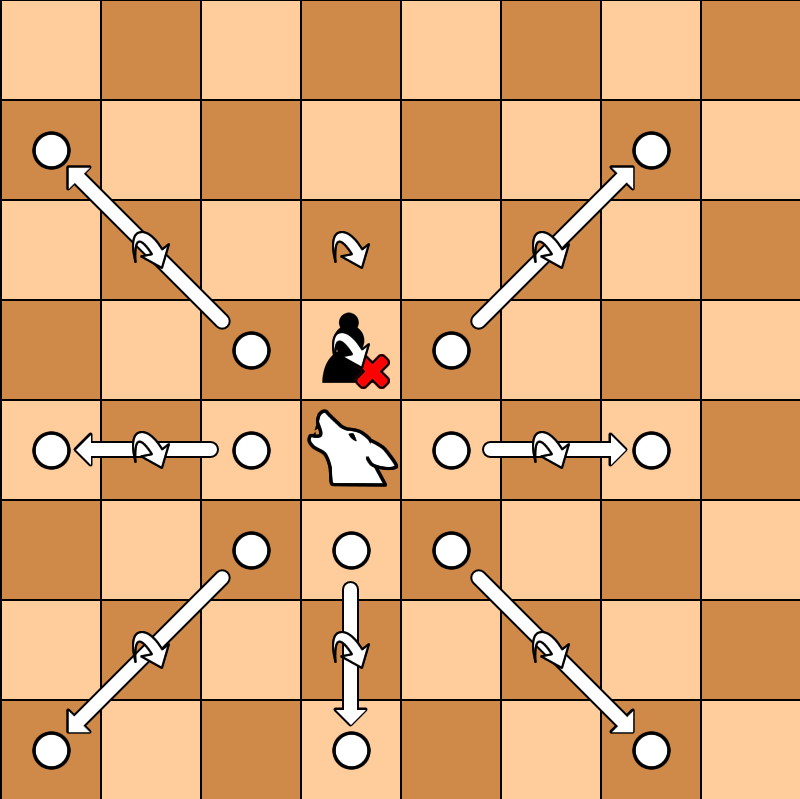
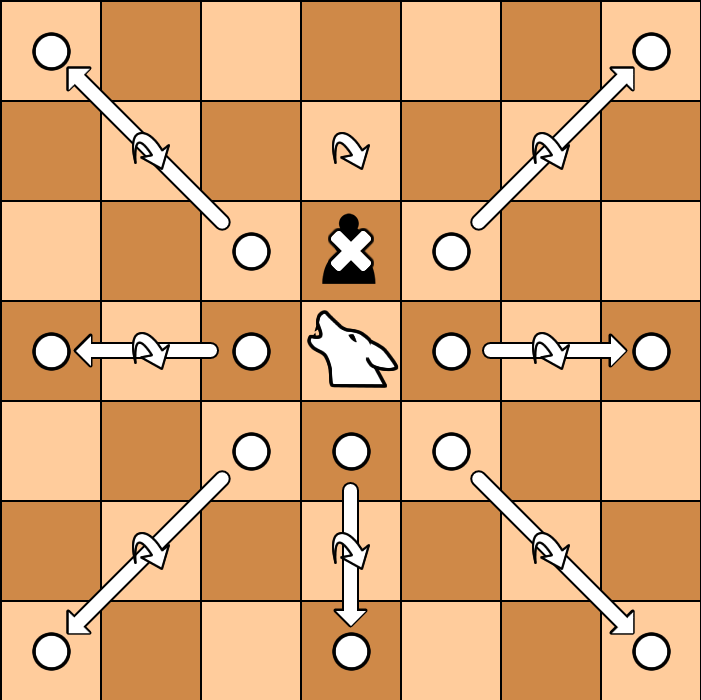
Rules for werewolf

diff --git a/src/games/chessbase/res/rules/werewolf/werewolf-description.html b/src/games/chessbase/res/rules/werewolf/werewolf-description.html
@@ -1,0 +1,19 @@
+<p>Werewolf Chess is orthodox Chess with the Queen replaced by a similar, but contageous piece</p>
+
+<p>
+Contagion is a game mechanic that first appeared in Maka Dai Dai Shogi,
+a large Shogi variant created by Japanese Buddhist monks in the Edo period.
+It is one of the methods to ensure the most powerful piece(s) cannot be easily traded out of the game.
+The idea is that when you capture a contageous piece, (in this case the Werewolf),
+the capturing piece instantly promotes to (i.e. changes into) a Werewolf.
+</p>
+<p>
+This profoundly changes the way tactics works, and ensures that after an exchange involving Werewolfs a Werewolf will remain.
+An attempt to trade Werewolfs will thus only lead to disappearance of one of the Werewolfs,
+strongly discouraging the player that would be left without one to engage in such a trade.
+</p>
+<p>
+To make the King not entirely defenseless against a Werewolf, he is immune to the contagion, and can thus safely capture a Werewolf.
+This will provide a way for all Werewolfs to disappear, but only when the King participates in tactic.
+(So usually not before the end-game.)
+</p>

diff --git a/src/games/chessbase/res/rules/werewolf/werewolf-rules.html b/src/games/chessbase/res/rules/werewolf/werewolf-rules.html
@@ -44,7 +44,7 @@ It can jump to the 2nd square in any direction even if the 1st square is occupie
 If it makes such a jump over an enemy piece,
 the latter can be optionally removed from the board,
 possibly in addition to what was captured on the destination square.
-		<p style='text-align:center'><img style="max-width:100%;" src="{GAME}/res/rules/fairy/eagle.png"/></p>
+		<p style='text-align:center'><img style="max-width:100%;" src="{GAME}/res/rules/fairy/wolf.png"/></p>
 </p>
 
 <h2>Inital setup</h2>

diff --git a/src/games/chessbase/index.js b/src/games/chessbase/index.js
@@ -6735,7 +6735,7 @@ exports.games = (function () {
 					"title-en": "Werewolf Chess",
 					"summary": "a contageous Werewolf replaces the Queen",
 					"rules": {
-						"en": "werewolf-rules.html"
+						"en": "res/rules/werewolf/werewolf-rules.html"
 					},
 					"module": "chessbase",
 					"plazza": "true",

diff --git a/src/games/chessbase/res/rules/werewolf/werewolf-credits.html b/src/games/chessbase/res/rules/werewolf/werewolf-credits.html
@@ -1,4 +1,4 @@
-<h3><a href="https://www.chessvariants.com/rules/'werewolf-chess">Rules</a></h3>
+<h3><a href="https://www.chessvariants.com/rules/werewolf-chess">Rules</a></h3>
 <p>H.G.Muller, 2015</p>
 
 <h3>Jocly implementation</h3>
